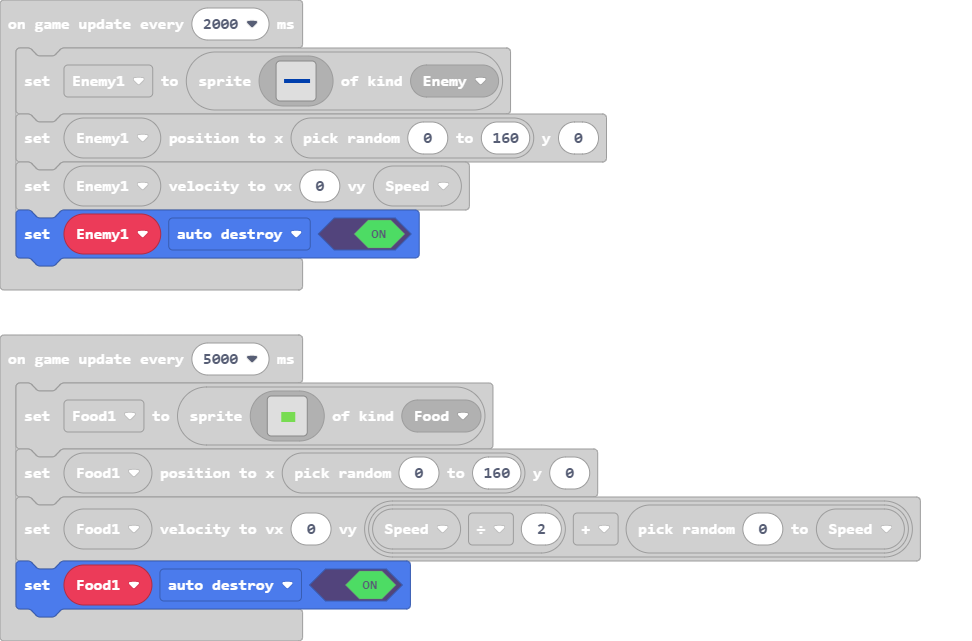
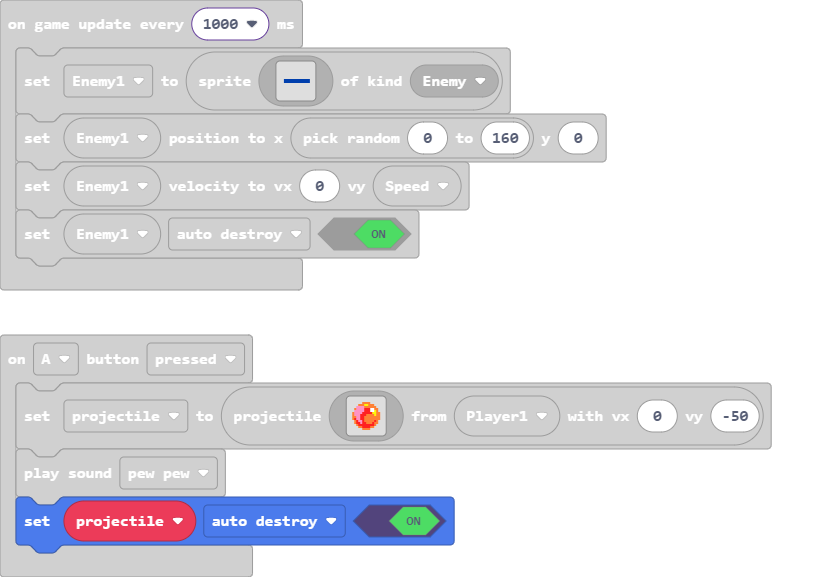
More autodestroy

diff --git a/main.ts b/main.ts
@@ -27,6 +27,7 @@ controller.A.onEvent(ControllerButtonEvent.Pressed, function () {
         . . . . . . . . . . . . . . . . 
         `, Player1, 0, -50)
     music.pewPew.play()
+    projectile.setFlag(SpriteFlag.AutoDestroy, true)
 })
 sprites.onOverlap(SpriteKind.Food, SpriteKind.Player, function (sprite, otherSprite) {
     sprite.destroy()
@@ -104,7 +105,7 @@ game.onUpdateInterval(5000, function () {
     Food1.setVelocity(0, Speed / 2 + randint(0, Speed))
     Food1.setFlag(SpriteFlag.AutoDestroy, true)
 })
-game.onUpdateInterval(2000, function () {
+game.onUpdateInterval(1000, function () {
     Enemy1 = sprites.create(img`
         . . . . . . . . . . . . . . . . 
         . . . . . . . . . . . . . . . . 
